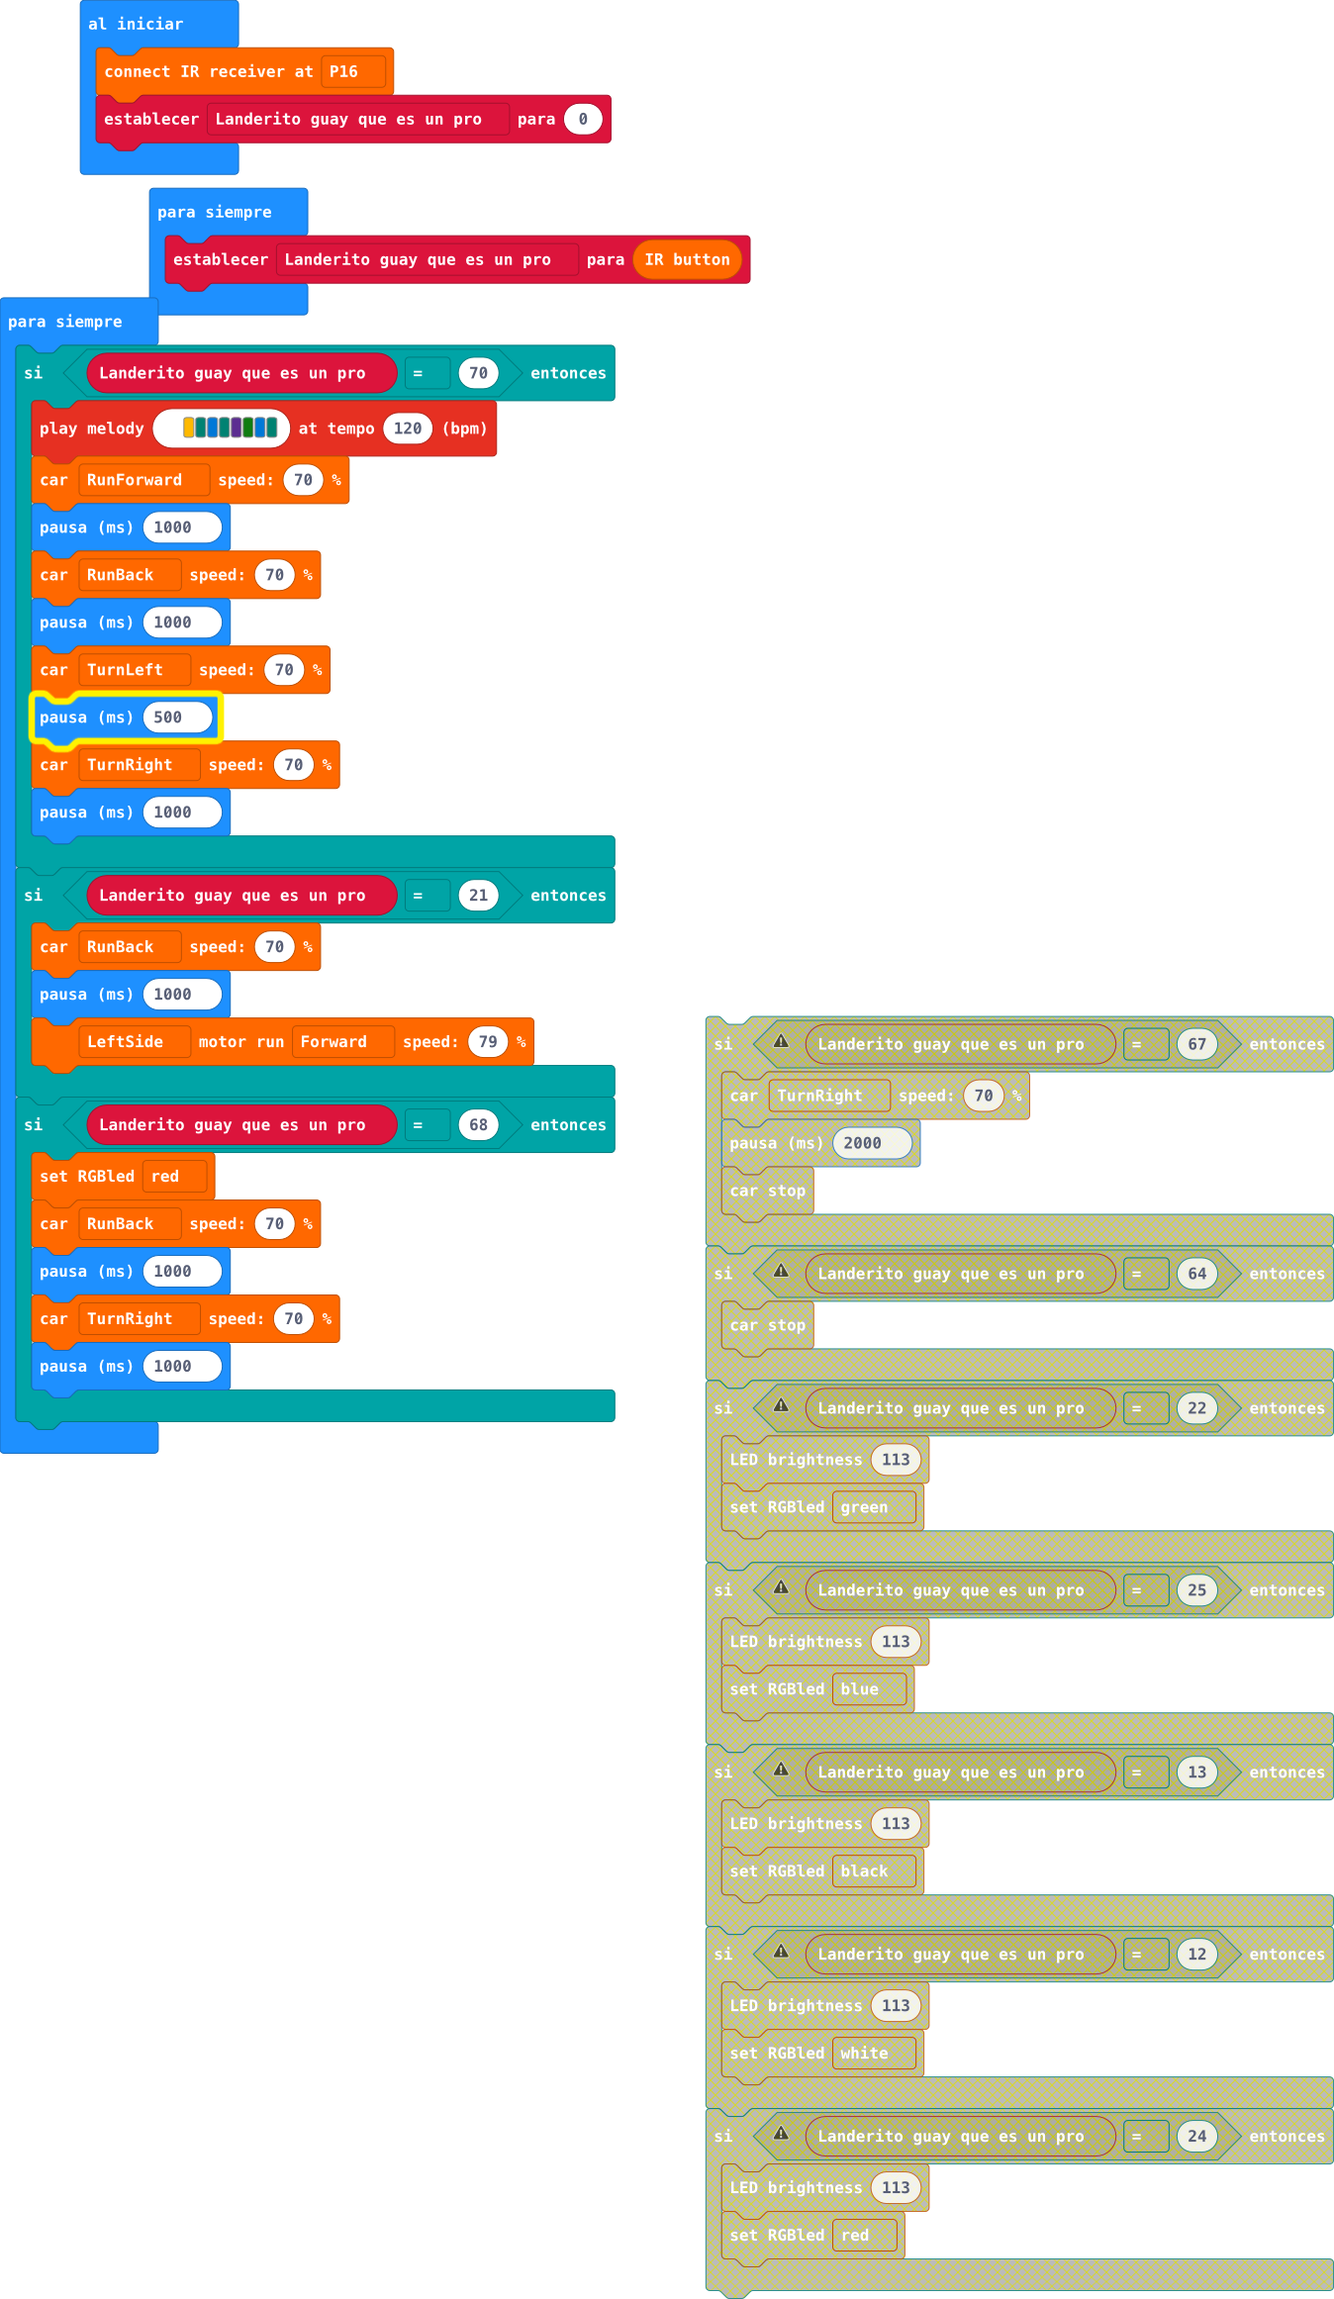
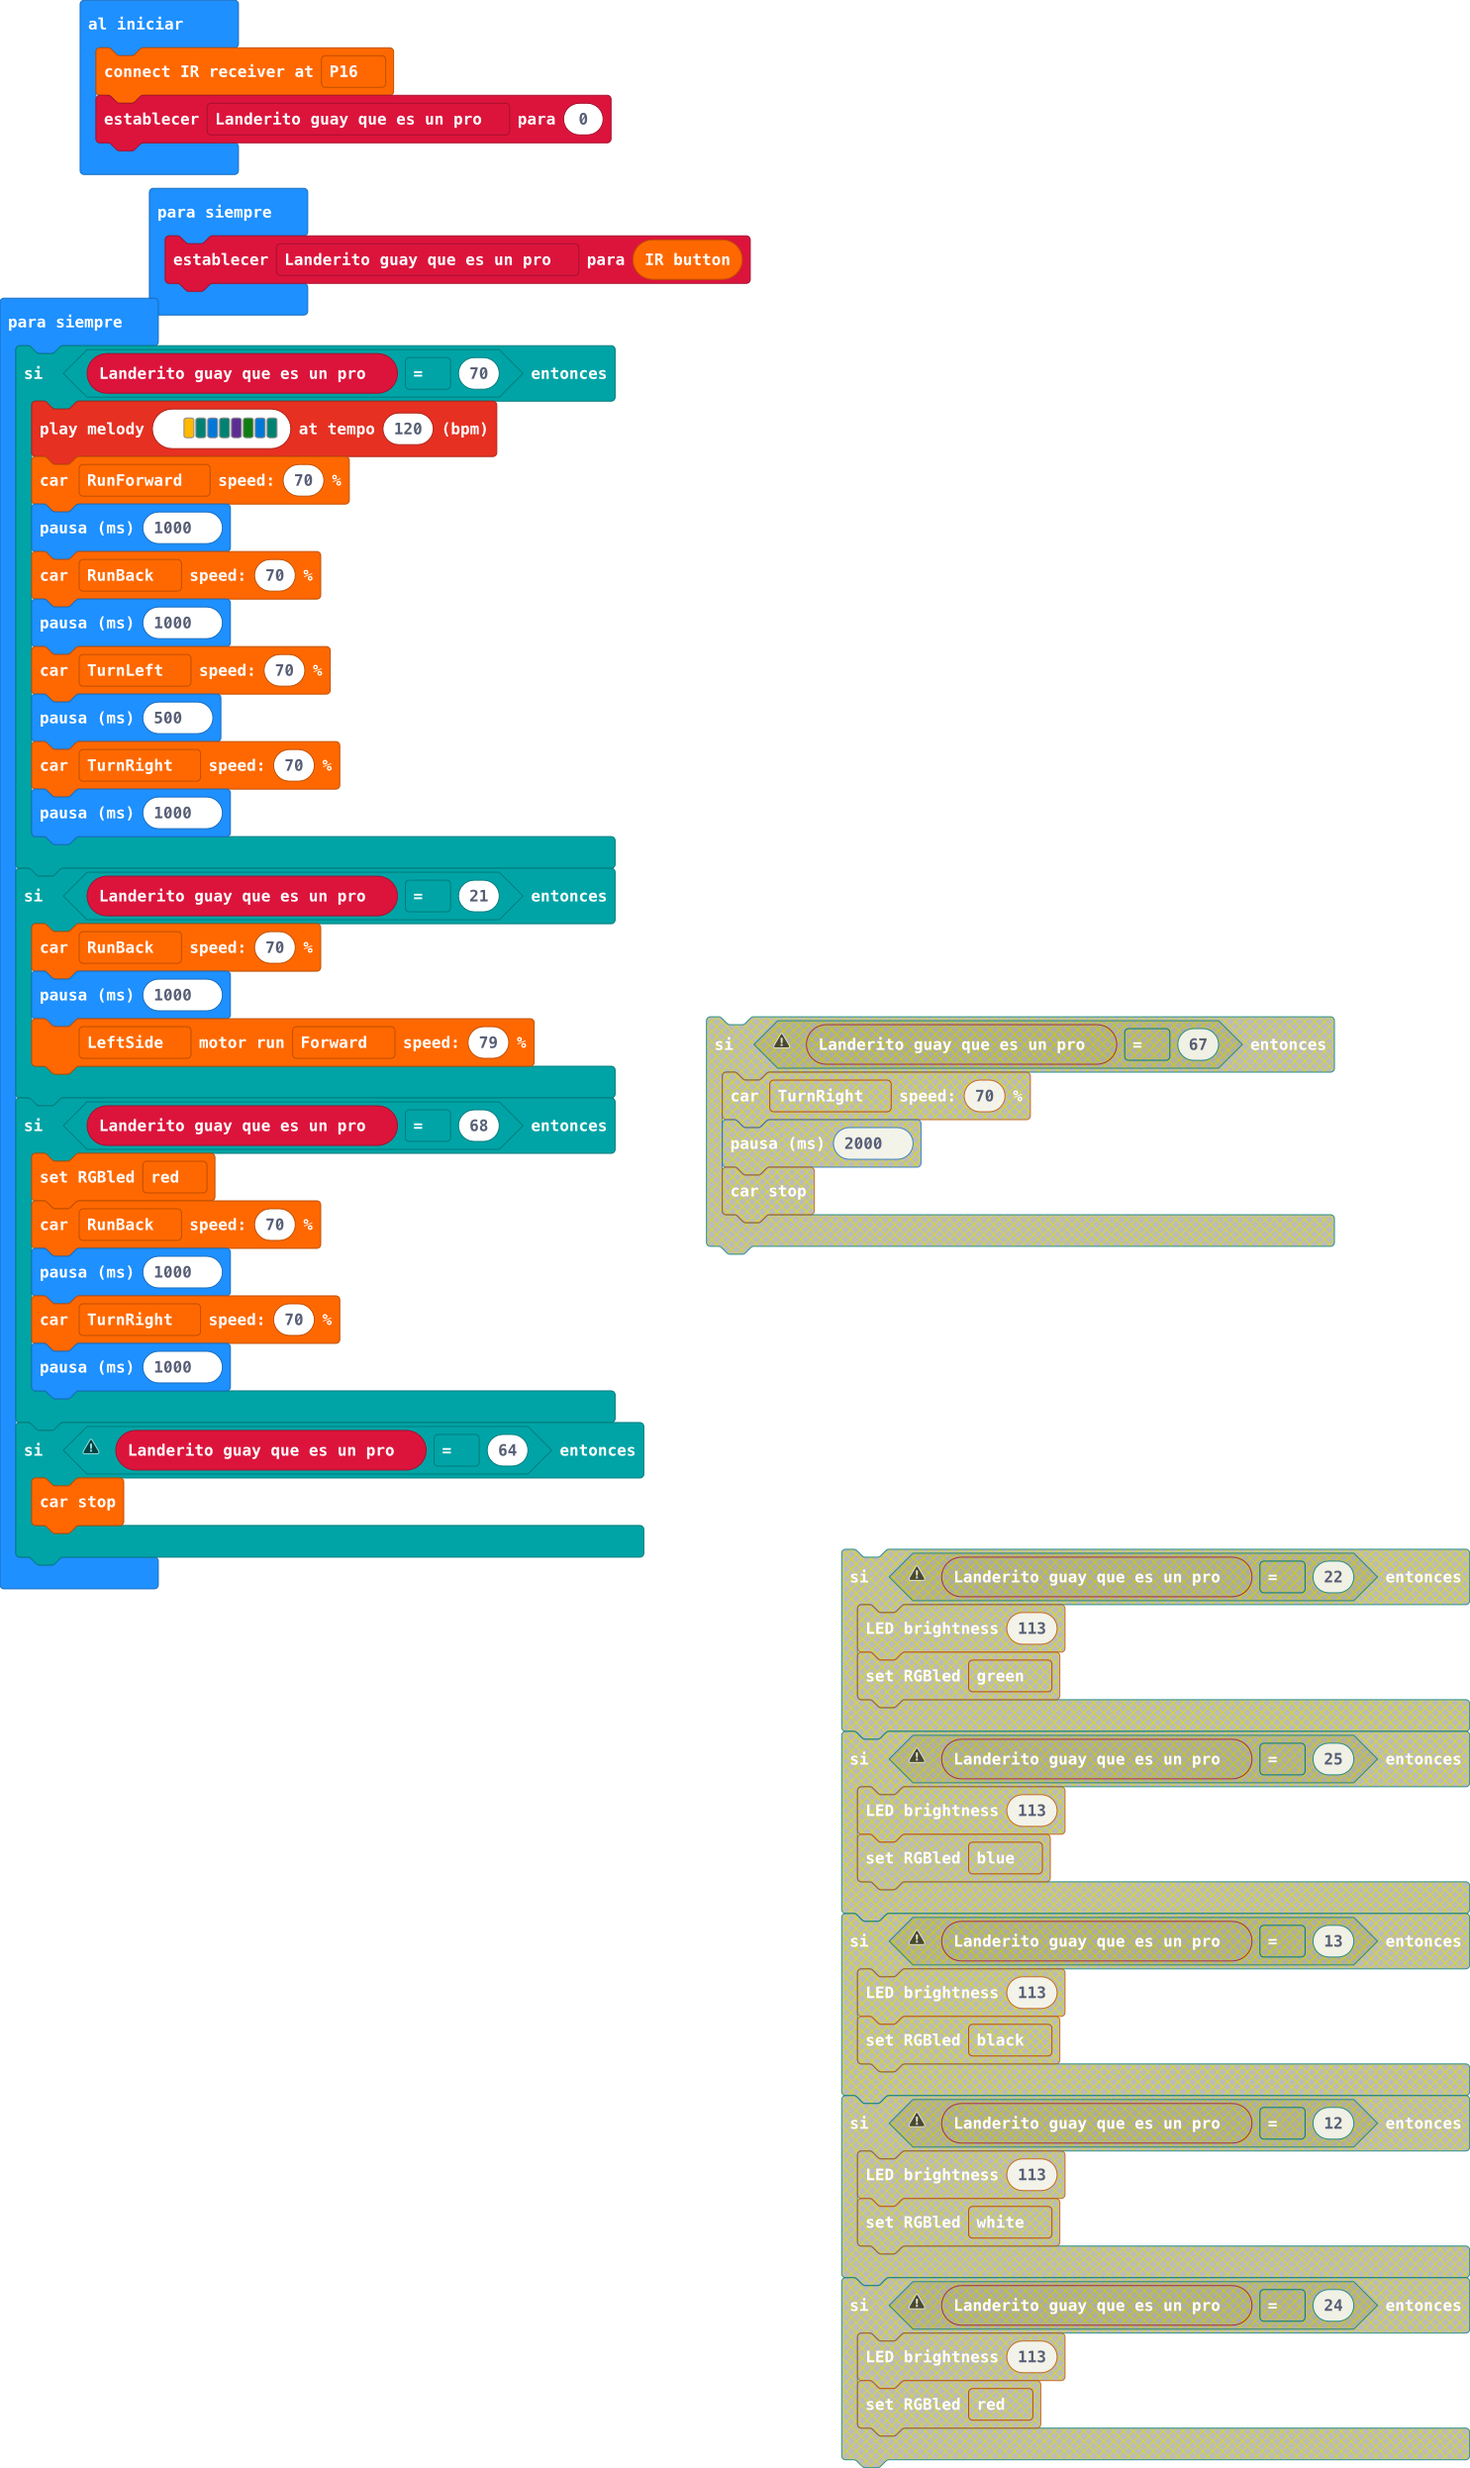
que si wue soy un pro

diff --git a/main.ts b/main.ts
@@ -27,4 +27,7 @@ basic.forever(function () {
         k_Bit.run(DIR.TurnRight, 70)
         basic.pause(1000)
     }
+    if (Landerito_guay_que_es_un_pro == 64) {
+        k_Bit.carStop()
+    }
 })
